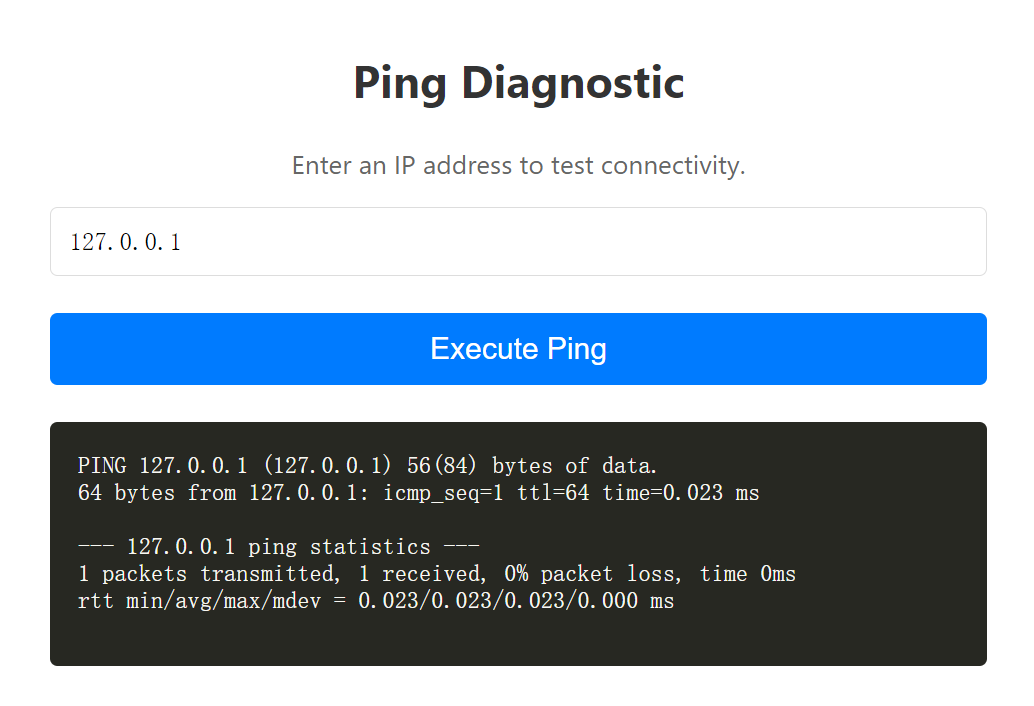
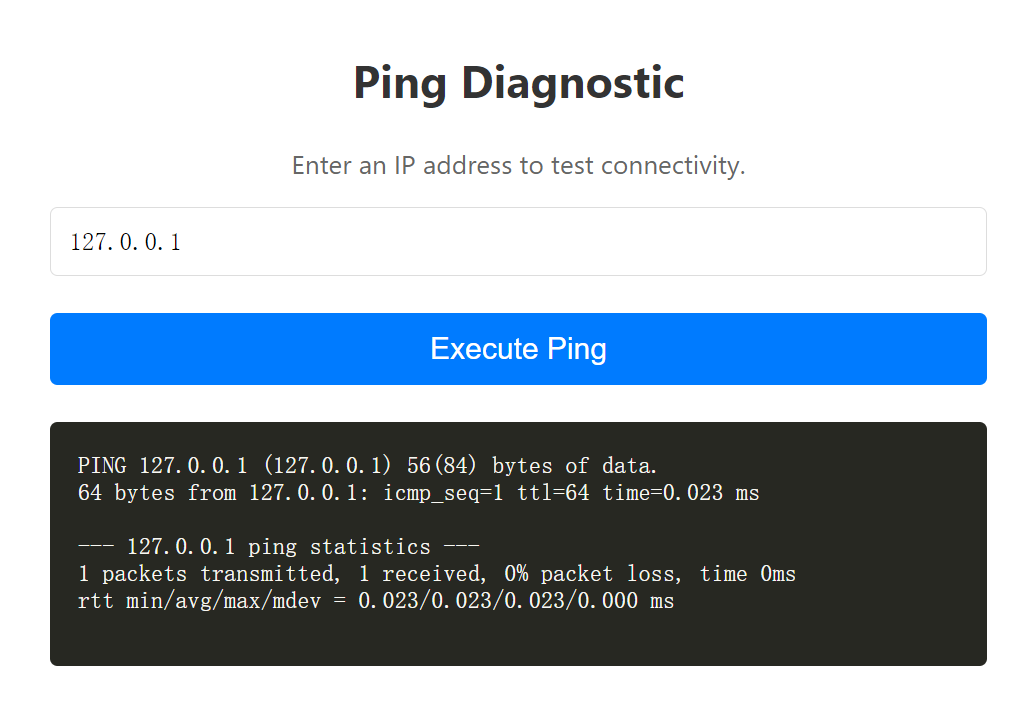
submit

diff --git a/1. EzPing/exploit.py b/1. EzPing/exploit.py
@@ -14,3 +14,4 @@ headers = {
 resp = requests.post(url, data=data_str.encode('utf-8'), headers=headers)
 print("Status:", resp.status_code)
 print("Response:", resp.text)
+

diff --git a/1. EzPing/1.EzPing.md b/1. EzPing/1.EzPing.md
@@ -1,5 +1,6 @@
 # Mini L-CTF 2026 web类个人题解
 
+
 ## 1. EzPing：
 
 题目描述为“这么简单？这不是一眼命令注入吗？”，